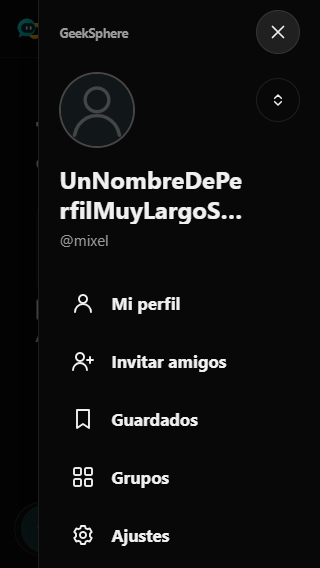
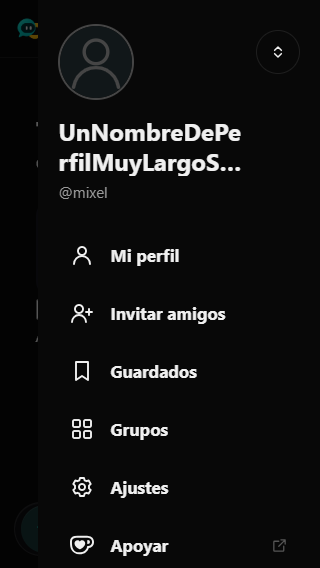
Nose

diff --git a/src/components/PwaMoreDrawer.css b/src/components/PwaMoreDrawer.css
@@ -8,40 +8,40 @@
   max-height: none;
   margin: 0;
   padding: 0;
-  overflow: hidden;
+  overflow: clip;
   border: 0;
   color: var(--text-primary);
   background: transparent;
   font-family: var(--font-sans);
 }
 
-.pwa-more-overlay[open] { display: flex; justify-content: flex-end; }
+.pwa-more-overlay[open] { display: block; }
 .pwa-more-overlay::backdrop { background: rgba(0, 0, 0, .64); animation: pwa-more-dim 220ms ease both; }
 
 .pwa-more-drawer {
+  position: absolute;
+  inset: 0 0 0 auto;
   display: flex;
   box-sizing: border-box;
   width: min(88vw, 380px);
   height: 100%;
   flex-direction: column;
-  padding: env(safe-area-inset-top, 0px) max(20px, env(safe-area-inset-right, 0px)) env(safe-area-inset-bottom, 0px) 20px;
+  margin: 0;
+  padding: calc(24px + env(safe-area-inset-top, 0px)) max(20px, env(safe-area-inset-right, 0px)) env(safe-area-inset-bottom, 0px) 20px;
   overflow-x: hidden;
   overflow-y: auto;
   overscroll-behavior: contain;
   background: var(--bg-primary);
-  border-left: 1px solid var(--border-default);
-  box-shadow: -18px 0 64px rgba(0, 0, 0, .35);
+  border: 0;
+  border-radius: 0;
+  box-shadow: none;
   animation: pwa-more-arrive 220ms cubic-bezier(.22, .8, .24, 1) both;
 }
 
-.pwa-more-toolbar { display: flex; min-height: 64px; flex-shrink: 0; align-items: center; justify-content: space-between; gap: 12px; }
-.pwa-more-toolbar > span { color: var(--text-secondary); font: 700 .8rem var(--font-display); letter-spacing: -.025em; }
-.pwa-more-close,
 .pwa-more-account-toggle { display: grid; box-sizing: border-box; width: 44px; height: 44px; flex: 0 0 44px; place-items: center; padding: 0; border: 1px solid var(--border-default); border-radius: 50%; color: var(--text-primary); background: transparent; cursor: pointer; }
-.pwa-more-close:hover,
 .pwa-more-account-toggle:hover { background: var(--bg-hover); }
 .pwa-more-content { display: flex; min-height: min-content; flex: 1; flex-direction: column; padding-bottom: 20px; }
-.pwa-more-identity { position: relative; margin: 8px 0 24px; padding-right: 52px; }
+.pwa-more-identity { position: relative; margin: 0 0 24px; padding-right: 52px; }
 .pwa-more-profile { display: flex; min-width: 0; flex-direction: column; align-items: flex-start; color: var(--text-primary); text-decoration: none; }
 .pwa-more-profile > img { box-sizing: border-box; width: 76px; height: 76px; margin-bottom: 16px; border: 2px solid var(--profile-accent-visible, var(--brand-primary)); border-radius: 50%; object-fit: cover; }
 .pwa-more-profile > strong { display: -webkit-box; max-width: 100%; overflow: hidden; font-size: 24px; font-weight: 750; line-height: 1.25; overflow-wrap: anywhere; -webkit-box-orient: vertical; -webkit-line-clamp: 2; }
@@ -74,7 +74,7 @@
 .pwa-more-drawer .more-account-signout:hover { color: var(--error); }
 .pwa-more-drawer :is(a, button):focus-visible { outline: 2px solid var(--profile-accent-visible, var(--brand-primary)); outline-offset: 2px; }
 
-@keyframes pwa-more-arrive { from { transform: translateX(100%); } to { transform: translateX(0); } }
+@keyframes pwa-more-arrive { from { transform: translate3d(100%, 0, 0); } to { transform: translate3d(0, 0, 0); } }
 @keyframes pwa-more-dim { from { opacity: 0; } to { opacity: 1; } }
 @media (prefers-reduced-motion: reduce) {
   .pwa-more-drawer,

diff --git a/src/components/PwaMoreDrawer.jsx b/src/components/PwaMoreDrawer.jsx
@@ -1,10 +1,8 @@
-import { useLayoutEffect, useRef } from 'react'
+import { useLayoutEffect } from 'react'
 import { createPortal } from 'react-dom'
 import './PwaMoreDrawer.css'
 
 export default function PwaMoreDrawer({ children, contentRef, returnFocusRef, onClose, style }) {
-  const closeRef = useRef(null)
-
   useLayoutEffect(() => {
     const dialog = contentRef.current
     const trigger = returnFocusRef.current
@@ -13,7 +11,7 @@ export default function PwaMoreDrawer({ children, contentRef, returnFocusRef, on
     document.body.style.overflow = 'hidden'
     document.documentElement.style.overflow = 'hidden'
     dialog.showModal()
-    closeRef.current.focus({ preventScroll: true })
+    dialog.querySelector('a[href], button:not(:disabled)')?.focus({ preventScroll: true })
     return () => {
       dialog.close()
       document.body.style.overflow = previousOverflow
@@ -52,12 +50,6 @@ export default function PwaMoreDrawer({ children, contentRef, returnFocusRef, on
       }}
     >
       <section className="pwa-more-drawer">
-        <div className="pwa-more-toolbar">
-          <span>GeekSphere</span>
-          <button ref={closeRef} className="pwa-more-close" type="button" aria-label="Cerrar menú" onClick={onClose}>
-            <svg width="22" height="22" viewBox="0 0 24 24" fill="none" stroke="currentColor" strokeWidth="1.9" strokeLinecap="round" aria-hidden="true"><path d="m6 6 12 12M18 6 6 18" /></svg>
-          </button>
-        </div>
         <div className="pwa-more-content">{children}</div>
       </section>
     </dialog>,
